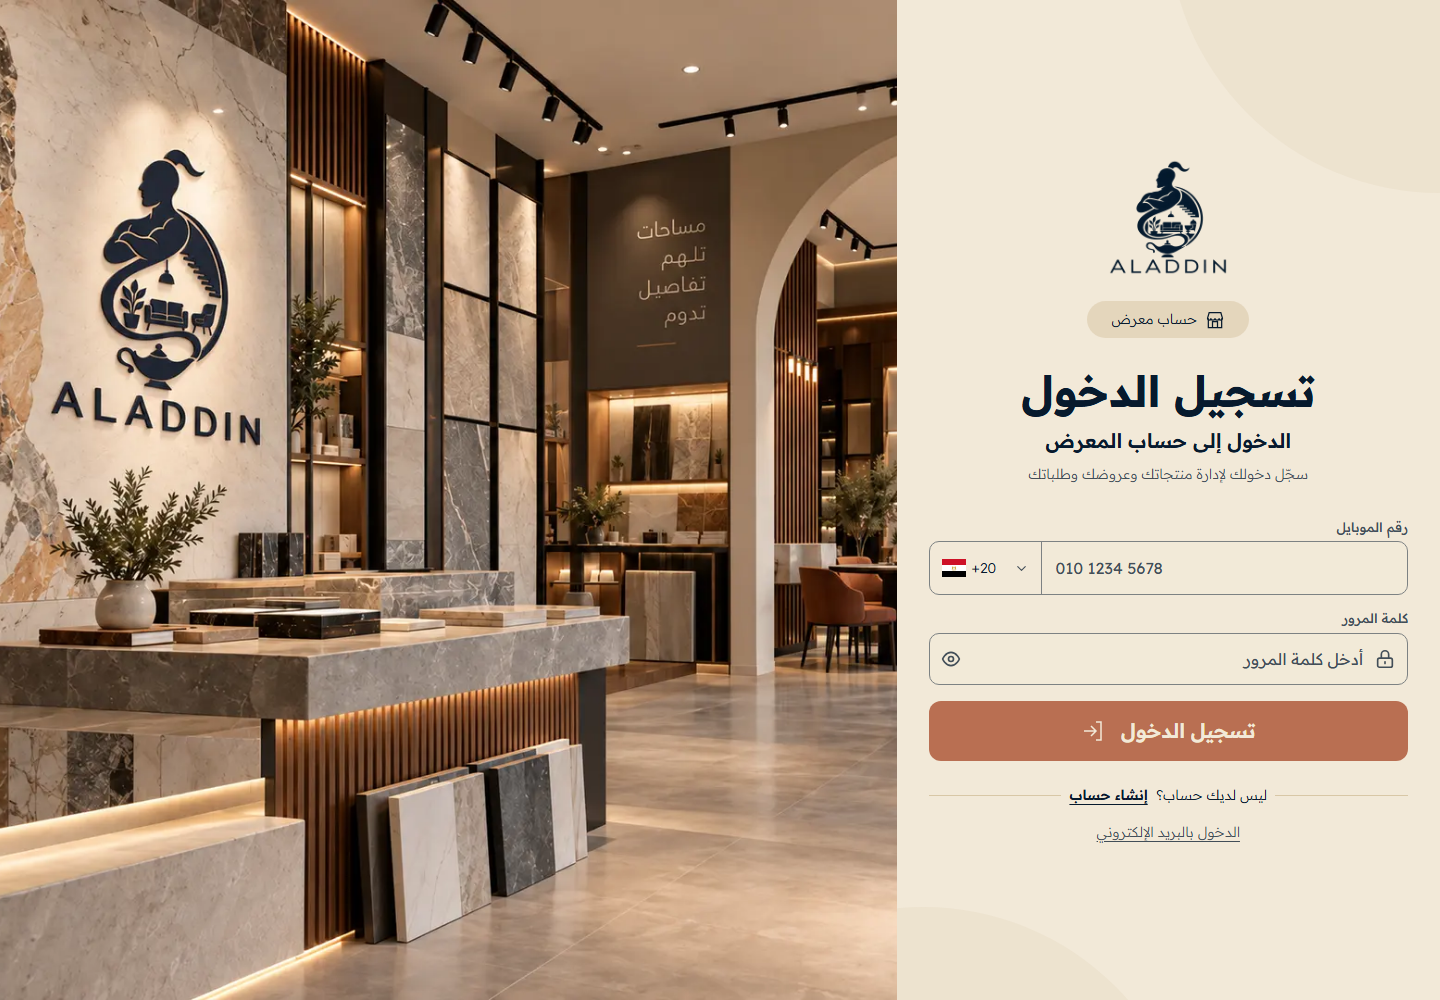
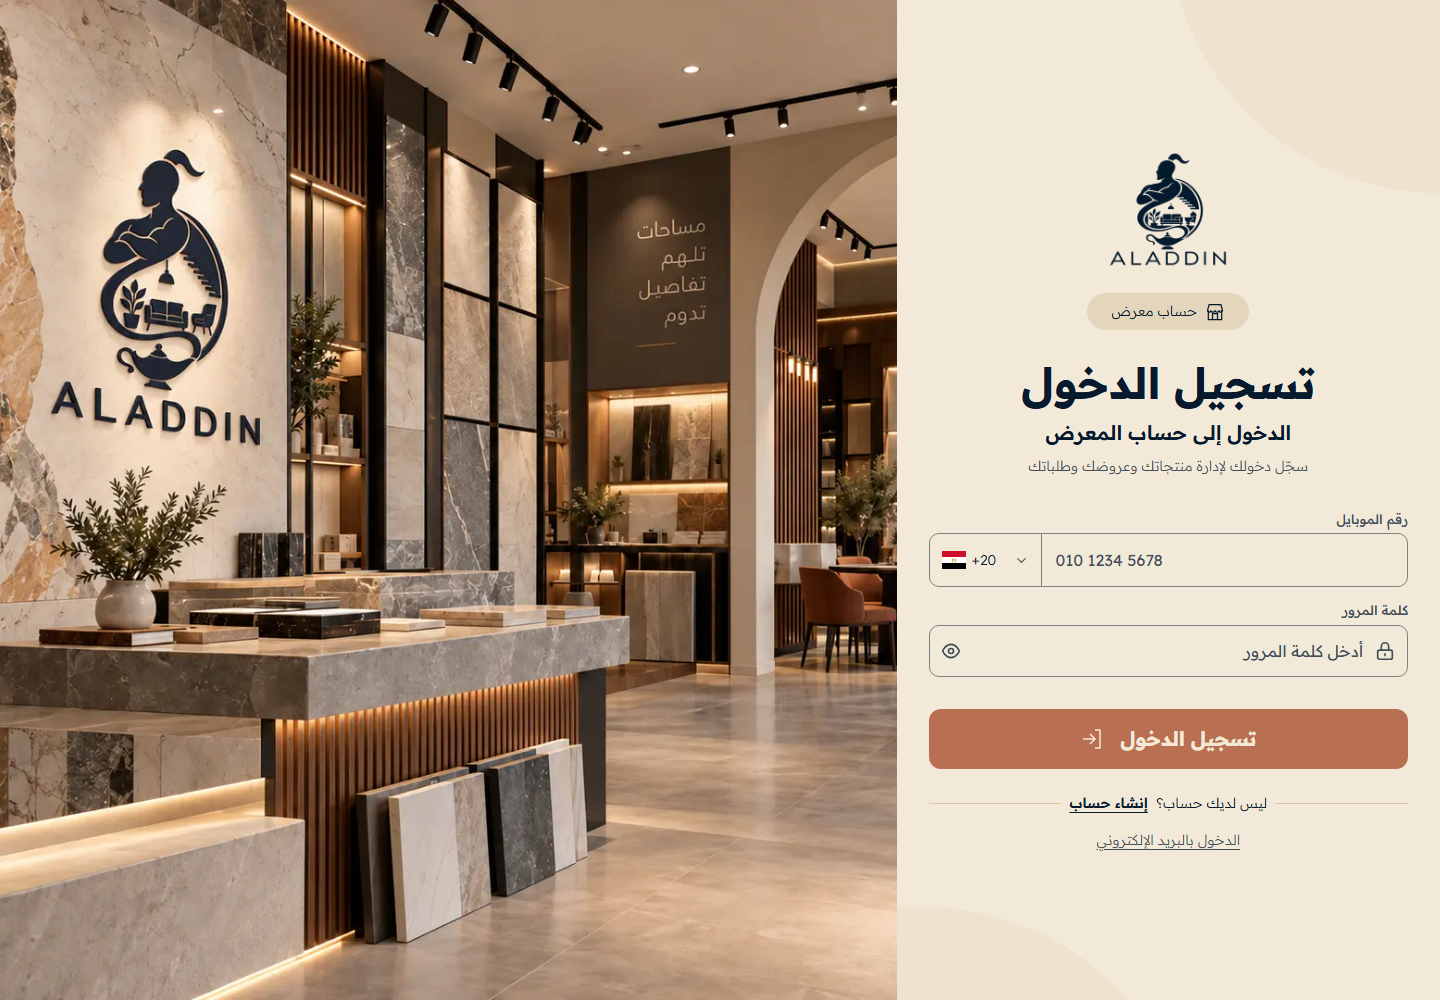
fix(showroom): guard quotation acceptance and improve CTA contrast

diff --git a/frontend/src/server/auth/phone-password.ts b/frontend/src/server/auth/phone-password.ts
@@ -24,33 +24,14 @@ import { generateCraftsmanUsername } from "@/features/installer-phone-auth/usern
 import type { Database } from "@/types/database.types";
 
 /**
- * Installer/technician phone + password entry point (approved, role-specific)
- * (docs/frontend/installer-phone-auth.md). A parallel ENTRY POINT only —
- * it creates an ordinary account through the existing infrastructure and
- * hands it to the existing installer experience:
- *
- *   phone + password
- *     → canonical E.164 (lib/contact/phone.ts)
- *     → internal login alias (lib/auth/craftsman-login-alias.ts)
- *     → Supabase Auth user, password hashed by GoTrue      (service role, once)
- *     → normal cookie session via signInWithPassword         (caller's client)
- *     → record_consent · onboarding_select_account_type(professional,
- *       installer_technician) · profile_set_phone · profile_set_username
- *       — the SAME RPCs, as the SAME authenticated caller, the canonical
- *       registration uses
- *     → my_registration_state() must be access_ready
- *     → resolveActiveLanding() (/home for an installer)
- *
- * The one intentional bypass is that no OTP is sent. Everything else holds:
- * Turnstile on sign-up, the existing password policy, GoTrue's own password
- * storage and rate limits, RLS on every write after the account exists.
- *
- * ROLLBACK: if anything after the Auth user is created fails, the session is
- * dropped and that user is deleted (the identity rows cascade), so a failed
- * sign-up never leaves an account that exists but cannot be used.
- *
- * Nothing here logs a phone, alias, password, token, or session.
- * Not wired to `/auth/*` or `server/actions/auth.ts`, which stay unchanged.
+ * Shared Installer/Showroom phone-password orchestration. Server wrappers select
+ * the account type; the historical Craftsman alias and exported state names are
+ * retained for compatibility. Reuse ordinary Supabase users, SSR sessions and
+ * authenticated consent/onboarding/profile RPCs; registration grants intent only.
+ * On initialization failure, sign out and delete the new identity. If deletion
+ * fails, attempt quarantine; transport failure may require operator cleanup.
+ * Application quotas supplement native provider limits but do not cover direct
+ * GoTrue requests (documented draft blocker). Never log credentials or sessions.
  */
 
 export type CraftsmanField = "name" | "phone" | "password" | "confirmPassword" | "consent" | "captcha" | "form";

diff --git a/frontend/e2e/showroom-auth.spec.ts b/frontend/e2e/showroom-auth.spec.ts
@@ -67,6 +67,19 @@ test("desktop/mobile layout, accessible controls and source assets", async ({ pa
         await page.evaluate(() => document.fonts.ready);
         await expect(page.locator('input[type="tel"]')).toHaveAttribute("autocomplete", "tel-national");
         await expect(page.locator('input[name="country"]')).toHaveValue("EG");
+        const cta = await page.locator('button[type="submit"]').evaluate(button => {
+            const style = getComputedStyle(button);
+            const luminance = (color: string) => {
+                const channels = color.match(/[\d.]+/g)!.slice(0, 3).map(value => Number(value) / 255);
+                const linear = channels.map(value => value <= 0.04045 ? value / 12.92 : ((value + 0.055) / 1.055) ** 2.4);
+                return linear.reduce((total, value, index) => total + value * ([0.2126, 0.7152, 0.0722][index] ?? 0), 0);
+            };
+            const a = luminance(style.color), b = luminance(style.backgroundColor);
+            return { ratio: (Math.max(a, b) + 0.05) / (Math.min(a, b) + 0.05), size: parseFloat(style.fontSize), weight: Number(style.fontWeight) };
+        });
+        expect(cta.weight).toBeGreaterThanOrEqual(700);
+        expect(cta.size).toBeGreaterThanOrEqual(18.67);
+        expect(cta.ratio).toBeGreaterThanOrEqual(3);
         expect(await page.evaluate(() => document.documentElement.scrollWidth <= window.innerWidth)).toBe(true);
         await expect(page.getByRole("link", { name: route === "sign-in" ? "إنشاء حساب" : "تسجيل الدخول", exact: true })).toBeVisible();
         await page.screenshot({ path: resolve(screenshotDir, route + "-" + info.project.name + ".png"), fullPage: true });

diff --git a/frontend/src/features/showroom-auth/showroom-auth.module.css b/frontend/src/features/showroom-auth/showroom-auth.module.css
@@ -26,7 +26,7 @@
 .consent a, .footer a { text-decoration: underline; text-underline-offset: 4px; font-weight: 600; }
 .error { color: var(--fg); @apply text-body; font-weight: 500; @apply ps-sm; border-inline-start: 1px solid var(--danger); }
 .hint { color: var(--fg-secondary); @apply text-label; line-height: 1.5; }
-.submit { width: 100%; min-height: 60px; @apply text-title; @apply gap-md; @apply rounded-md; background: var(--muted-terracotta); color: var(--soft-cream); font-weight: 600; box-shadow: none; }
+.submit { width: 100%; min-height: 60px; @apply text-title; @apply gap-md; @apply rounded-md; background: var(--muted-terracotta); color: var(--soft-cream); font-weight: 700; box-shadow: none; }
 .footer { display: flex; align-items: center; justify-content: center; flex-wrap: wrap; @apply gap-sm; @apply mt-lg; text-align: center; @apply text-body; }
 .footer::before, .footer::after { content: ""; height: 1px; background: var(--warm-sand); flex: 1; @apply min-w-4; }
 :global(.dark) .sheet { background: var(--deep-navy); }

diff --git a/docs/frontend/showroom-business-onboarding.md b/docs/frontend/showroom-business-onboarding.md
@@ -1,7 +1,7 @@
 # Showroom business onboarding — local review
 
 ## Purpose and current decision
-Extend the existing business wizard and draft RPCs. The product owner approved these changes as part of Showroom authentication, with final PR preparation held until visual review.
+Extend the existing business wizard and draft RPCs. The product owner approved the UI and authorized final review/PR creation. The PR remains a draft because the security limitations below are unresolved.
 
 Step 1 keeps trading name, legal name and optional description (maximum 250 characters). Showroom accounts additionally require a valid canonical E.164 business phone and one existing showroom activity; email is optional and normalized by trim/lowercase. The exact Arabic activities are معرض ديكور, معرض دهانات, معرض ديكور ودهانات and موان. The last option retains the existing building_and_finishing_supplies_retailer key.
 
@@ -17,7 +17,7 @@ Forward-only migrations: 20261014123000_showroom_business_onboarding_details.sql
 
 The local test stack is aladdin_showroom_auth, API http://127.0.0.1:63321, database port 63322. Worktree frontend .env.local contains local-only configuration. No production database or deployment was modified.
 
-## Verification
+## Earlier onboarding review verification
 - TypeScript noEmit: passed.
 - Scoped ESLint: passed.
 - Latest focused onboarding / profile / Showroom and Installer auth run: 149 tests passed in 8 files.
@@ -76,7 +76,23 @@ Separate reruns overlap; do not sum their counts.
 
 The later full DB rerun shared the preview database with browser-created fixtures. Historical suites assume exact seed-only org/membership/audit counts and no extra active Super Admin; retained synthetic business/reviewer fixtures violate those assumptions, with concurrent execution compounding the problem. New task suites 90/91/92 passed in that run. Do not present the previous full pass as a clean latest overall gate. No DB reset/audit deletion was used to manufacture a pass. Synthetic local identities with protected business history are quarantined/archived. A pristine disposable acceptance database is required for a repeatable full seed-only run.
 
-An earlier browser run passed 22 and failed two journeys because the test reloaded before navigation after saving. Both desktop/mobile journeys passed after waiting for the next step. Final full browser rerun: **24 passed, 0 failed** (2.8 minutes). Final TypeScript check passed; ESLint had 0 errors / 1 pre-existing sidebar-shell hook warning. Sequential task database suites 90/91/92: **116 passed, 0 failed**. Scenarios use genuine local auth, caller/admin RPCs, local verification and synthetic users. No production accounts are exercised. No formal axe audit was run.
+An earlier browser run passed 22 and failed two journeys because the test reloaded before navigation after saving. Both desktop/mobile journeys passed after waiting for the next step. Final full browser rerun: **24 passed, 0 failed** (2.8 minutes). Final TypeScript check passed; ESLint had 0 errors / 1 pre-existing sidebar-shell hook warning. Sequential task database suites 90/91/92 originally **116 passed, 0 failed**; review added three quotation acceptance/RFQ-preservation/rejection tests, with suite92 **36 passed** and the complete three-suite rerun **119 passed / 0 failed**. Scenarios use genuine local auth, caller/admin RPCs, local verification and synthetic users. No production accounts are exercised. No formal axe audit was run.
+
+## Independent review: Standards
+One material finding: CTA cream/terracotta contrast is approximately3.19:1 and needs large bold text to meet AA. Fixed CTA weight from600 to700 at20px; retain the approved palette. One judgement-call finding: shared orchestration retained installer-only documentation. Corrected module/rollback/quota comments; historical exported Craftsman names remain for compatibility. No further actionable standards findings were reported in reviewed auth/selling SQL. Build/screenshots are refreshed after the CSS change.
+
+## Independent review: Spec
+Two new findings, separate from the previously known native quota blocker. Quotation eligibility was checked only at submission; fixed accepted transition too. Three local regression assertions verify denial after eligibility loss, RFQ remains quoted and rejection still succeeds.
+
+**Remaining merge blocker: direct business-contact RPC metadata validation.** Next actions and UI enforce libphonenumber, but business_draft_save/submit enforce E.164 shape rather than full country numbering metadata. A rolled-back synthetic diagnostic saved/submitted `+201000000000`, which fails the application's Egyptian numbering validation. An invalid contact does not grant approval automatically, but this violates the direct-RPC valid-contact contract; it is not resolved by frontend restrictions. The authoritative database boundary needs equivalent metadata validation or a reviewed trusted validation contract before merge. Do not replace this with a fixed global length regex or claim all phone security checks passed. No extra dependency/service or hosted setting was introduced to conceal this issue.
+
+Review totals: Standards1material+1maintainability finding, both addressed; Spec2newfindings, quotationfixed/contactvalidationopen, plus previously documented nativequota blocker. A clean full seed-only DB run and production impact/configuration review remain required.
+
+Reviewed build passed; desktop/mobile layout rerun **2/2 passed**, verifying actual rendered CTA weight/size/contrast and refreshing all four authentication screenshots. Shared auth focused rerun **114/114 passed**. DB advisors/lint also surfaced pre-existing mutable-search-path warnings and PostGIS dynamic-SQL diagnostics; these are not represented as a clean global security scan, and unrelated database cleanup was not performed.
+
+An additional post-review journey rerun was **aborted/incomplete** when Docker exec stopped responding; the diagnostic container query also stalled. Only the exact task's worker/acceptance server on3340 was stopped; no Docker restart or other Aladdin server interruption. This rerun is not counted as a pass. The prior full24/24browser run remains the executed complete run; the quotation change is independently covered by the119/119task database run. Final TypeScript rerun passed after correcting strict array indexing in the contrast test.
+
+A separate untracked `frontend/e2e/auth-captcha.spec.ts` appeared during final checks. It was not created by this task, is preserved untouched and excluded from commits. The worktree therefore must not be called entirely clean or removed; task-related tracked changes are committed separately from this external file.
 
 ## Migrations, files, references and operational limits
 Four forward migrations: phone quota/account-type/rollback security (`20261014085731`), draft/business contacts and activity (`20261014123000`), optional-address bounds/completion (`20261014133000`), activation/selling/legacy snapshots (`20261014160000`). Applied only locally. Before deployment: resolve native-auth quota coverage; verify hosted password/cookie/provider settings; assess production legacy impact; review locks/backups; migrate before a compatible app. Snapshot historical sellers once, never recreate exceptions per deployment. Rollback requires reviewed forward corrective migration and compatible app; do not reset DB, erase audits or blindly deploy an app incompatible with creation rules.

diff --git a/docs/operations/RUNTIME_STATE.md b/docs/operations/RUNTIME_STATE.md
@@ -523,3 +523,6 @@ pnpm exec supabase start && pnpm exec supabase db reset
 ## Verified local Showroom review — 2026-10-14
 
 Worktree: aladdin-wt-showroom-auth; branch feat/showroom-auth, based on origin/main c7963c9. Development preview remains http://localhost:3341, isolated local Supabase API http://127.0.0.1:63321 / database 63322. Canonical routes: /showroom/sign-in, /showroom/sign-up, /onboarding/business. UI approved; final draft PR packaging authorized, no merge/deployment. Original checkout's 14 baseline file hashes and feature/auth-password-preview branch are unchanged. Four task migrations applied only locally; temporary config/build-generated tracked files restored. Full frontend 2793 passed/13 skipped; final focused auth232 passed; browser24 passed; sequential task pgTAP116 passed; production build/typecheck passed; lint0errors/1oldwarning. Earlier full DB3794 passed; latest full DB polluted by retained browser fixtures failed21 assertions across6files/abortedplans. Native GoTrue bypasses the extra application phone quota: DRAFT/MERGE-BLOCKED pending provider-wide mitigation. Free plan hook limitation and production impact remain open. [Full report](../frontend/showroom-business-onboarding.md), [approved legacy policy](../decisions/ADR-0015-showroom-address-selling-rollout.md). Never run the historical reset commands above against this preview stack as part of this task.
+
+Final independent review addendum: fixed quotation acceptance eligibility with RFQ-preservation/rejection tests (task pgTAP now119/119), corrected shared auth comments and CTA20px/700contrast. Direct business contact RPC validates only E.164 shape: rolled-back invalid-national-pattern diagnostic confirmed a second merge blocker. Both blockers are explicit in the draft report. Auth focused rerun114/114 passed. Original checkout remains untouched.
+Additional post-review journey rerun incomplete: Docker exec/diagnostic stalled; only task acceptance worker/server3340 stopped. Prior24/24fullbrowser pass remains evidence; latesttaskDB119/119passed. New external untracked frontend/e2e/auth-captcha.spec.ts preserved and excluded. Worktree is not entirely clean; do not remove. User preview3341 retained, no Docker restart/other server interruption.

diff --git a/docs/operations/AGENT_WORK_LOG.md b/docs/operations/AGENT_WORK_LOG.md
@@ -6524,3 +6524,6 @@ compose, that a filtered queue really is filtered, and that every chip's `href` 
 being driven — rather than the latency of a synthetic click. 5/5, no retries, twice consecutively.
 
 Per instruction: no full E2E, no pgTAP, no Lighthouse, no persona matrix.
+
+### Final independent review addendum — 2026-10-14
+Standards: CTA contrast and stale shared-module documentation corrected. Spec: quotation accepted transitions now enforce seller eligibility; RFQ remains open on denial and rejection allowed, verified by3newpgTAP assertions. Sequential taskDB119/119; focusedauth114/114. Direct business contact RPC country metadata validation remains missing, confirmed by rolled-back synthetic diagnostic; added as second merge blocker alongside native quota. No hosted writes. Reviewed build/renderedcontrast/screenshots checked before final push.
